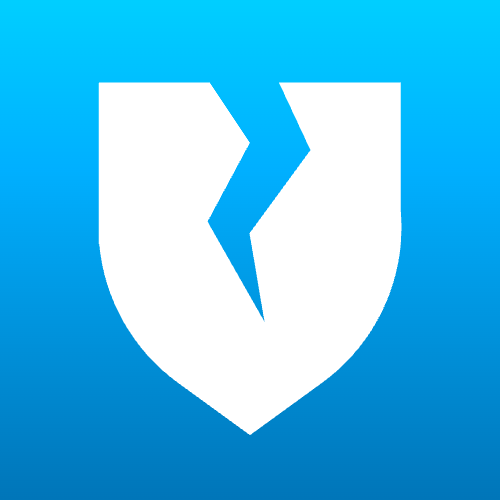
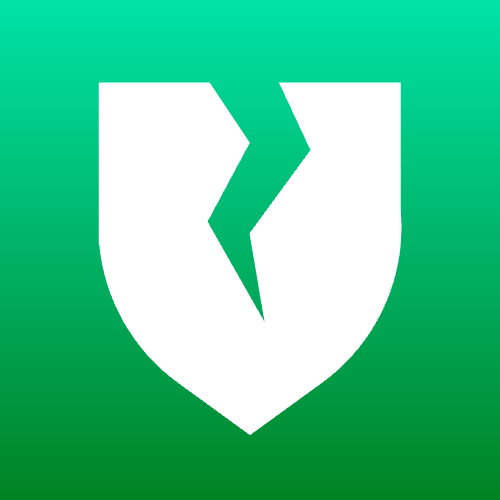
update jamie background color

diff --git a/src/data/alters.ts b/src/data/alters.ts
@@ -22,7 +22,7 @@ export namespace Alters {
   export const AMBER: AlterInfo = {id: "amber", name: "Amber", backgroundColor: "#c58900"}
   export const RIPPLE: AlterInfo = {id: "ripple", name: "Ripple", backgroundColor: "#0076fb"}
   export const JUNE: AlterInfo = {id: "june", name: "June", backgroundColor: "#ff4fb0"}
-  export const JAMIE: AlterInfo = {id: "jamie", name: "Jamie", backgroundColor: "#00a4f5"}
+  export const JAMIE: AlterInfo = {id: "jamie", name: "Jamie", backgroundColor: "#00b964"}
   export const OTHER: AlterInfo = {id: "other", name: "Other", backgroundColor: "#949494"}
 
   export const ALL: AlterInfo[] = [
